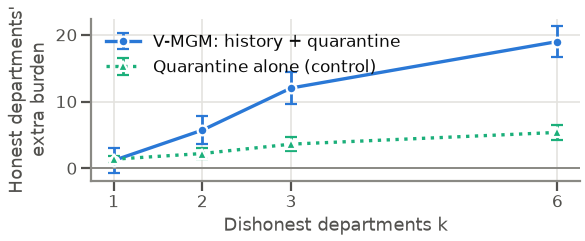
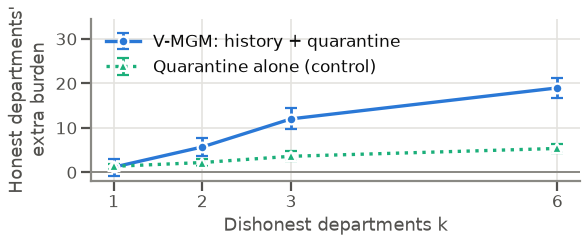
Figure 2: headroom so the legend does not cross the lines; recompile (8 pages)

Changed region(s): [[0.0923, 0.0871, 1.0, 0.7552]]

diff --git a/vmgm/figures.py b/vmgm/figures.py
@@ -168,6 +168,8 @@ def fig_quarantine(d, e2):
         ax.set_xticks(ks)
         ax.set_xlabel('Dishonest departments k')
         ax.set_ylabel('Honest departments\'\nextra burden')
+        lo, hi = ax.get_ylim()
+        ax.set_ylim(lo, hi + 0.5 * (hi - lo))      # headroom so the legend sits above the lines
         ax.legend(loc='upper left')
         save(fig, d, 'fig2_quarantine_cost')
 
